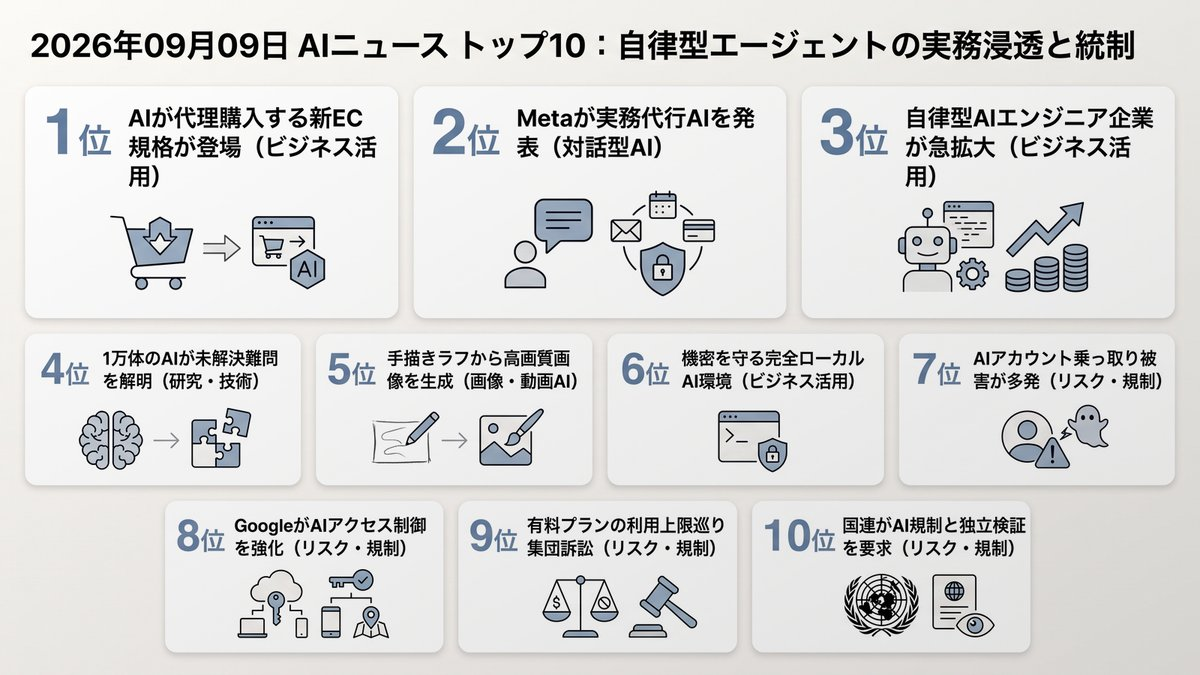
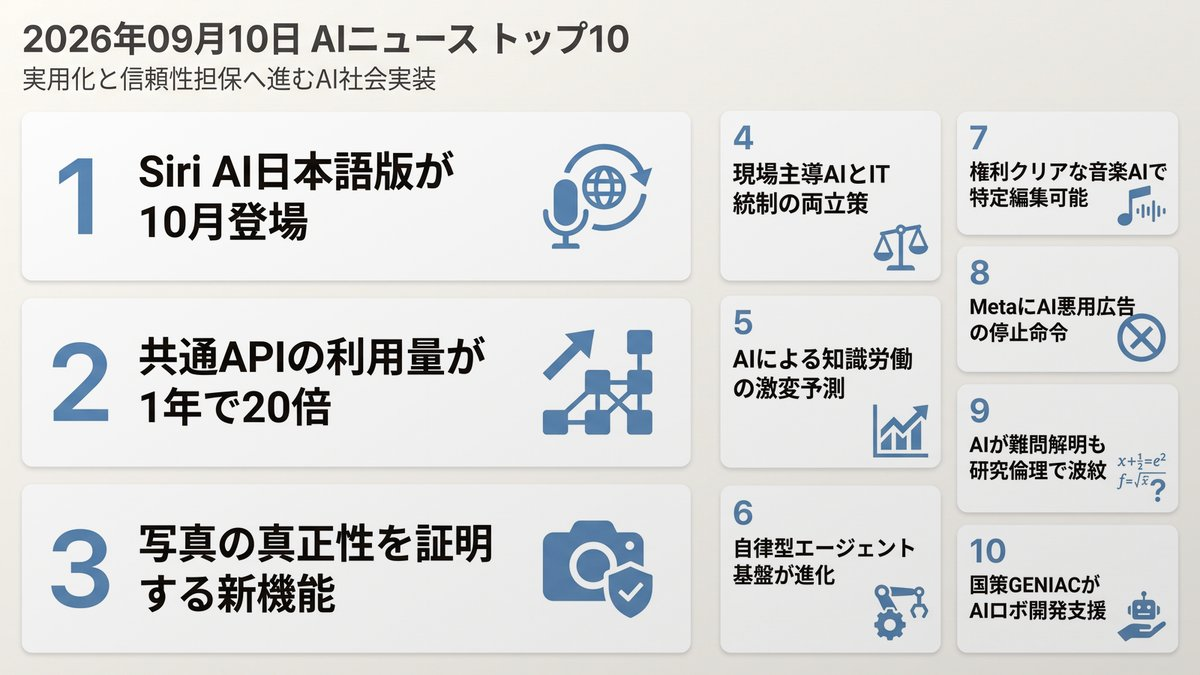
Morning Brief delivered [skip ci]

Changed region(s): [[0.0, 0.0311, 0.9867, 0.9644], [0.6167, 0.4044, 0.6475, 0.4356]]

diff --git a/docs/index.html b/docs/index.html
@@ -12,16 +12,16 @@
     <!-- OGP_START -->
 <meta property="og:type" content="website">
 <meta property="og:site_name" content="AI ニュース TOP10">
-<meta property="og:title" content="自律型エージェントの実務浸透と統制 | AI ニュース TOP10">
-<meta property="og:description" content="実務代行AIが台頭、運用と安全の再設計を。 本日のトップ: AIが代理購入する新EC規格が登場">
+<meta property="og:title" content="実用化と信頼性担保へ進むAI社会実装 | AI ニュース TOP10">
+<meta property="og:description" content="技術の進展と同時に、信頼性と組織統制が問われるフェーズに入っています。 本日のトップ: Siri AI日本語版が10月登場">
 <meta property="og:image" content="https://tadfuji.github.io/ai-news-bot/ogp_card.jpg">
 <meta property="og:url" content="https://tadfuji.github.io/ai-news-bot/">
 <meta name="twitter:card" content="summary_large_image">
-<meta name="twitter:title" content="自律型エージェントの実務浸透と統制 | AI ニュース TOP10">
-<meta name="twitter:description" content="実務代行AIが台頭、運用と安全の再設計を。">
+<meta name="twitter:title" content="実用化と信頼性担保へ進むAI社会実装 | AI ニュース TOP10">
+<meta name="twitter:description" content="技術の進展と同時に、信頼性と組織統制が問われるフェーズに入っています。">
 <meta name="twitter:image" content="https://tadfuji.github.io/ai-news-bot/ogp_card.jpg">
-<meta name="description" content="実務代行AIが台頭、運用と安全の再設計を。 世界のAIニュースを毎朝日本語で厳選してお届け。">
-<script type="application/ld+json">{"@context": "https://schema.org", "@type": "ItemList", "name": "AI ニュース TOP10 — 自律型エージェントの実務浸透と統制", "itemListElement": [{"@type": "ListItem", "position": 1, "name": "AIが代理購入する時代到来、小売やECが直面する新潮流", "url": "https://www.itmedia.co.jp/business/articles/2609/09/news009.html"}, {"@type": "ListItem", "position": 2, "name": "Metaが個人向けAIエージェント「Muse」を発表、実務や購買を代行", "url": "https://www.wired.com/story/meta-releases-muse-a-personal-ai-agent-with-privacy-built-into-it/"}, {"@type": "ListItem", "position": 3, "name": "AIコーディング「Devin」開発のCognitionが評価額480億ドルを達成", "url": "https://techcrunch.com/2026/09/08/cognition-hits-48b-valuation-signaling-investors-believe-ai-coding-is-far-from-a-winner-take-all-market/"}, {"@type": "ListItem", "position": 4, "name": "OpenAIが1万体のAIエージェントで90年の未解決数学難問を88時間で解明", "url": "https://www.bbc.co.uk/news/articles/cy7zygy3rl2o?at_medium=RSS\u0026at_campaign=rss"}, {"@type": "ListItem", "position": 5, "name": "ChatGPTに手描きから高品質画像を生成する新機能「Sketch」が登場", "url": "https://www.theverge.com/ai-artificial-intelligence/991727/openai-chatgpt-images-2-5-sketch"}, {"@type": "ListItem", "position": 6, "name": "機密コードを安全に処理する完全ローカルCLI AI「OpenCode」の活用法", "url": "https://zenn.dev/secondselection/articles/ebb0ff2760185f"}, {"@type": "ListItem", "position": 7, "name": "ハッカーがClaudeアカウントを乗っ取りトークンを盗掘する被害が多発", "url": "https://techcrunch.com/2026/09/08/hackers-are-stealing-claude-tokens-from-subscribers/"}, {"@type": "ListItem", "position": 8, "name": "GoogleがGemini Enterprise向けに端末や場所によるアクセス制御を導入", "url": "http://workspaceupdates.googleblog.com/2026/09/context-aware-access-controls-are-available-for-Gemini-Enterprise-in-the-Admin-console.html"}, {"@type": "ListItem", "position": 9, "name": "Anthropicが集団訴訟に直面、高額サブスクの利用上限巡りユーザーが提訴", "url": "https://www.theverge.com/ai-artificial-intelligence/990313/anthropic-class-action-lawsuit-pricing-subscription-plans"}, {"@type": "ListItem", "position": 10, "name": "国連がAIの安全規制と独立検証を要求、存続に関わるリスクに警告", "url": "https://pc.watch.impress.co.jp/docs/news/2139271.html"}]}</script>
+<meta name="description" content="技術の進展と同時に、信頼性と組織統制が問われるフェーズに入っています。 世界のAIニュースを毎朝日本語で厳選してお届け。">
+<script type="application/ld+json">{"@context": "https://schema.org", "@type": "ItemList", "name": "AI ニュース TOP10 — 実用化と信頼性担保へ進むAI社会実装", "itemListElement": [{"@type": "ListItem", "position": 1, "name": "Apple「Siri AI」日本語版を10月に提供開始へ", "url": "https://www.itmedia.co.jp/aiplus/article/2609/10/2000001338/"}, {"@type": "ListItem", "position": 2, "name": "AI共通API「OpenRouter」のトークン処理量が1年で20倍に急拡大", "url": "https://atmarkit.itmedia.co.jp/ait/articles/2609/10/news011.html"}, {"@type": "ListItem", "position": 3, "name": "iPhone 18 Pro、撮影写真が「本物」であることを証明する署名機能を搭載", "url": "https://www.gizmodo.jp/article/apple-reference-image_iphone/"}, {"@type": "ListItem", "position": 4, "name": "現場のAI導入における暴走とIT統制の対立を防ぐ「組織変革の要点」", "url": "https://atmarkit.itmedia.co.jp/ait/articles/2609/10/news012.html"}, {"@type": "ListItem", "position": 5, "name": "Anthropicが経済影響モデルを公表：知識労働者の失業リスクと生産性拡大シナリオ", "url": "https://the-decoder.com/anthropic-built-an-economic-model-that-frames-its-ceos-bleakest-job-forecasts-as-an-outlier-scenario/"}, {"@type": "ListItem", "position": 6, "name": "AWSがAmazon Bedrockのアップデートを発表、GPT-5.6や長期実行エージェントに対応", "url": "https://aws.amazon.com/blogs/machine-learning/icymi-what-landed-for-ai-builders-in-august-2026/"}, {"@type": "ListItem", "position": 7, "name": "Sunoがレコード会社と提携した新音楽生成AI「v6」を公開、チャット編集に対応", "url": "https://www.theverge.com/ai-artificial-intelligence/991977/suno-releases-its-first-ai-music-model-made-with-record-industry-help"}, {"@type": "ListItem", "position": 8, "name": "米サンフランシスコ市、MetaにAI悪用広告の停止を命令 プラットフォーム責任追及", "url": "https://www.wired.com/story/san-francisco-orders-meta-to-stop-allowing-ai-child-abuse-ads/"}, {"@type": "ListItem", "position": 9, "name": "OpenAIが数学の難問をAIで解明と発表、学会では抜け駆け・剽窃の懸念が浮上", "url": "https://www.theverge.com/ai-artificial-intelligence/992953/openai-math-millennium-prize-navier-stokes"}, {"@type": "ListItem", "position": 10, "name": "経産省GENIACがAI×ロボティクスへ拡張、基盤モデル開発事業者13社を採択", "url": "https://monoist.itmedia.co.jp/mn/articles/2609/10/news053.html"}]}</script>
 <!-- OGP_END -->
     <style>
         :root {
@@ -391,16 +391,16 @@
 
         <main id="news-container">
             <!-- PRERENDER_START -->
-<article class="news-card" data-category="ビジネス活用"><div style="display:flex;align-items:center;margin-bottom:5px;"><span class="news-rank">1</span><span class="news-category" data-category="ビジネス活用">ビジネス活用</span></div><div class="news-oneliner">💡 AIが代理購入する新EC規格が登場</div><h2 class="news-title">AIが代理購入する時代到来、小売やECが直面する新潮流</h2><p class="news-summary">AIがユーザーの意図を汲み取って献立の検討から商品の比較、店舗受け取り予約や決済まで自律的に完結させる「エージェンティックコマース」の台頭が解説されています。米Googleが共通規格「Universal Commerce Protocol (UCP)」を推進するなど、消費者が直接ECサイトを回遊せずAIが最適な店舗や商品を選ぶ仕組みが急速に整いつつあります。企業にとっては、従来の人間向けWebデザインだけでなく、AIが商品の価値や適合性を正確に判断できるデータ構造を整備することが事業継続の必須条件になります。</p><div class="news-why">📌 なぜ重要？ 購買決定権が人間からAIエージェントへ移行し、従来のSEOやWebデザイン重視のマーケティング戦略が根本から覆る可能性があります。</div><div class="news-action">👉 今日の行動：自社製品情報が外部AIに機械可読な構造化データとして提供できているか確認してください。</div><div class="news-meta"><span class="news-source">📰 ITmedia ビジネスオンライン</span><span class="news-link"><a href="https://www.itmedia.co.jp/business/articles/2609/09/news009.html" target="_blank" rel="noopener">→ 元記事を読む</a></span></div></article>
-<article class="news-card" data-category="対話型AI"><div style="display:flex;align-items:center;margin-bottom:5px;"><span class="news-rank">2</span><span class="news-category" data-category="対話型AI">対話型AI</span></div><div class="news-oneliner">💡 Metaが実務代行AIを発表</div><h2 class="news-title">Metaが個人向けAIエージェント「Muse」を発表、実務や購買を代行</h2><p class="news-summary">Metaは日常のデジタル作業を自動化する個人用AIエージェント「Muse」を発表しました。専用アプリやWebサイトに加え、WhatsApp経由でも利用可能で、自然言語で指示するだけでメール送信、旅行予約、さらにはStripeと連携した安全な決済代行まで自律的にこなします。各ユーザーの作業を仮想マシン上で分離する「Secure VM」アーキテクチャを採用し、セキュリティとプライバシー保護を前面に押し出しています。日常のルーティン業務や煩雑な手配作業をAIへ完全に委任するワークスタイルへの転換を後押しします。</p><div class="news-why">📌 なぜ重要？ 自然言語の指示だけで予約から決済まで完結する環境が一般化し、業務委任のスピードが劇的に加速します。</div><div class="news-action">👉 今日の行動：普段手作業で行っている定型的な連絡や手配タスクをリストアップしてみてください。</div><div class="news-meta"><span class="news-source">📰 Wired AI</span><span class="news-link"><a href="https://www.wired.com/story/meta-releases-muse-a-personal-ai-agent-with-privacy-built-into-it/" target="_blank" rel="noopener">→ 元記事を読む</a></span></div></article>
-<article class="news-card" data-category="ビジネス活用"><div style="display:flex;align-items:center;margin-bottom:5px;"><span class="news-rank">3</span><span class="news-category" data-category="ビジネス活用">ビジネス活用</span></div><div class="news-oneliner">💡 自律型AIエンジニア企業が急拡大</div><h2 class="news-title">AIコーディング「Devin」開発のCognitionが評価額480億ドルを達成</h2><p class="news-summary">自律型AIエンジニア「Devin」を開発するスタートアップCognitionが、480億ドルの企業評価額で20億ドルを調達したと発表しました。年換算収益はわずか数か月で4億9200万ドルから9億ドルへと倍増しており、米大手金融機関やメルセデス・ベンツなどエンタープライズ企業での導入が急速に進んでいます。ソフトウェア開発の現場では、プログラマーの単なるコード補完にとどまらず、仕様把握からデバッグ、実装までをAIが自律的に遂行する変革が不可逆な潮流となっています。</p><div class="news-why">📌 なぜ重要？ 単なるコード補完を超え、仕様把握から実装まで自走するAIの導入が開発組織の標準になりつつあります。</div><div class="news-action">👉 今日の行動：開発チームのタスクのうち、仕様策定とコーディングの工数比率を再点検してみましょう。</div><div class="news-meta"><span class="news-source">📰 TechCrunch AI</span><span class="news-link"><a href="https://techcrunch.com/2026/09/08/cognition-hits-48b-valuation-signaling-investors-believe-ai-coding-is-far-from-a-winner-take-all-market/" target="_blank" rel="noopener">→ 元記事を読む</a></span></div></article>
-<article class="news-card" data-category="研究・技術"><div style="display:flex;align-items:center;margin-bottom:5px;"><span class="news-rank">4</span><span class="news-category" data-category="研究・技術">研究・技術</span></div><div class="news-oneliner">💡 1万体のAIが未解決難問を解明</div><h2 class="news-title">OpenAIが1万体のAIエージェントで90年の未解決数学難問を88時間で解明</h2><p class="news-summary">OpenAIは、未発表の新型AIモデルを搭載した約1万体のAIエージェントを協調稼働させ、流体力学における90年来の未解決問題であるナビエ・ストークス方程式の一部をわずか88時間で解明したと発表しました。エージェント間では約300万通のメッセージがやり取りされ、1300億トークンが消費されました。この成果は、単一のプロンプト処理を超えて、多数の自律型AIが連携して高度な知的課題を並列解決する「群エージェントシステム」の実用性と圧倒的な問題解決能力を証明しています。</p><div class="news-why">📌 なぜ重要？ 単一AIへの指示から多数のエージェントを協調させる群制御へのパラダイムシフトが本格化しています。</div><div class="news-action">👉 今日の行動：大規模課題を独立した小タスクへ並列分解する業務プロセスを意識してみてください。</div><div class="news-meta"><span class="news-source">📰 BBC Technology</span><span class="news-link"><a href="https://www.bbc.co.uk/news/articles/cy7zygy3rl2o?at_medium=RSS&amp;at_campaign=rss" target="_blank" rel="noopener">→ 元記事を読む</a></span></div></article>
-<article class="news-card" data-category="画像・動画AI"><div style="display:flex;align-items:center;margin-bottom:5px;"><span class="news-rank">5</span><span class="news-category" data-category="画像・動画AI">画像・動画AI</span></div><div class="news-oneliner">💡 手描きラフから高画質画像を生成</div><h2 class="news-title">ChatGPTに手描きから高品質画像を生成する新機能「Sketch」が登場</h2><p class="news-summary">OpenAIはChatGPT Images 2.5を発表し、チャット画面上で手描きした簡単なラフ画から高精細な画像を生成できる新機能「Sketch」を導入しました。プロンプトとして「@Sketch」と入力することでスケッチ描画ウィンドウが立ち上がり、マウス等で描いた粗い絵を指示通りのリアルな画像へと変換できます。さらに生成された特定の箇所を指定して修正を指示できる部分編集機能や、従来比で最大50%の生成遅延削減も実現しており、企画書やプレゼン資料用のビジュアル作成が劇的に効率化されます。</p><div class="news-why">📌 なぜ重要？ 言語化が困難な視覚イメージの共有コストが下がり、企画・デザインの初期検討が大幅に迅速化します。</div><div class="news-action">👉 今日の行動：企画書に添えるイメージ図を手描きラフから作成する実験を行ってみてください。</div><div class="news-meta"><span class="news-source">📰 The Verge AI</span><span class="news-link"><a href="https://www.theverge.com/ai-artificial-intelligence/991727/openai-chatgpt-images-2-5-sketch" target="_blank" rel="noopener">→ 元記事を読む</a></span></div></article>
-<article class="news-card" data-category="ビジネス活用"><div style="display:flex;align-items:center;margin-bottom:5px;"><span class="news-rank">6</span><span class="news-category" data-category="ビジネス活用">ビジネス活用</span></div><div class="news-oneliner">💡 機密を守る完全ローカルAI環境</div><h2 class="news-title">機密コードを安全に処理する完全ローカルCLI AI「OpenCode」の活用法</h2><p class="news-summary">ターミナル上で自律的にコード生成や修正を行うCLI AIエージェント「OpenCode」を、ローカルLLM実行基盤「Ollama」と連携させる実践ガイドが公開されました。外部APIへ一切データを送信しないため、企業の厳格な機密保持基準を満たしながら、自走型エージェント開発環境をローカルPC上に構築できます。API利用料や回数制限を気にせず試行錯誤できる利点があり、社内の機密データやソースコードを保護しつつ最新の開発支援AIを導入したい企業にとって有力な選択肢となります。</p><div class="news-why">📌 なぜ重要？ 情報漏洩リスクや従量課金を気にせず、エージェント機能を社内環境で検証・運用可能になります。</div><div class="news-action">👉 今日の行動：社内規定で外部クラウドに出せない機密資産の範囲をエンジニアと共有してみましょう。</div><div class="news-meta"><span class="news-source">📰 Zenn LLM</span><span class="news-link"><a href="https://zenn.dev/secondselection/articles/ebb0ff2760185f" target="_blank" rel="noopener">→ 元記事を読む</a></span></div></article>
-<article class="news-card" data-category="リスク・規制"><div style="display:flex;align-items:center;margin-bottom:5px;"><span class="news-rank">7</span><span class="news-category" data-category="リスク・規制">リスク・規制</span></div><div class="news-oneliner">💡 AIアカウント乗っ取り被害が多発</div><h2 class="news-title">ハッカーがClaudeアカウントを乗っ取りトークンを盗掘する被害が多発</h2><p class="news-summary">AnthropicのAIサービス「Claude」において、第三者にセッションキーが不正取得され、正規契約者のトークン利用枠を裏で消費される被害が報告されています。被害に遭ったコンサルタントは自身が作業していない時間帯にトークン消費が急増したことで被害を認識し、アカウントの一時停止と返金対応を受けましたが、業務停止による多大な損害を被りました。同様の被害はRedditやGitHubでも相次いで報告されており、企業や個人がAIツールのアカウント管理およびセキュリティ対策を見直す重要性が浮き彫りになっています。</p><div class="news-why">📌 なぜ重要？ AIツールの認証不備がトークン盗掘や予期せぬ金銭的・業務停止損害に直結するリスクが現実化しています。</div><div class="news-action">👉 今日の行動：利用中のAIサービスで二段階認証の有効化とAPIキーの保管状況を再点検してください。</div><div class="news-meta"><span class="news-source">📰 TechCrunch AI</span><span class="news-link"><a href="https://techcrunch.com/2026/09/08/hackers-are-stealing-claude-tokens-from-subscribers/" target="_blank" rel="noopener">→ 元記事を読む</a></span></div></article>
-<article class="news-card" data-category="リスク・規制"><div style="display:flex;align-items:center;margin-bottom:5px;"><span class="news-rank">8</span><span class="news-category" data-category="リスク・規制">リスク・規制</span></div><div class="news-oneliner">💡 GoogleがAIアクセス制御を強化</div><h2 class="news-title">GoogleがGemini Enterprise向けに端末や場所によるアクセス制御を導入</h2><p class="news-summary">Google Workspaceは「Gemini Enterprise」向けに、管理コンソールから設定可能なコンテキストアウェアアクセス（CAA）ポリシーの提供を開始しました。これによりシステム管理者は、アクセス元のデバイスのセキュリティ状態や地理的な接続場所などの属性に基づいて、企業向け生成AIへのアクセス権限を細かく制御できるようになります。リモートワークとオフィス勤務が混在するハイブリッドワーク環境において、私用端末からの不正アクセスや機密データの漏洩を防ぎ、安全な生成AI運用体制を構築できます。</p><div class="news-why">📌 なぜ重要？ 場所や端末状態に応じたアクセス統制により、エンタープライズでの安全なAI活用基盤が整います。</div><div class="news-action">👉 今日の行動：社内の生成AI利用ポリシーで私用端末の接続条件が定義されているか確認しましょう。</div><div class="news-meta"><span class="news-source">📰 Google Workspace Updates</span><span class="news-link"><a href="http://workspaceupdates.googleblog.com/2026/09/context-aware-access-controls-are-available-for-Gemini-Enterprise-in-the-Admin-console.html" target="_blank" rel="noopener">→ 元記事を読む</a></span></div></article>
-<article class="news-card" data-category="リスク・規制"><div style="display:flex;align-items:center;margin-bottom:5px;"><span class="news-rank">9</span><span class="news-category" data-category="リスク・規制">リスク・規制</span></div><div class="news-oneliner">💡 有料プランの利用上限巡り集団訴訟</div><h2 class="news-title">Anthropicが集団訴訟に直面、高額サブスクの利用上限巡りユーザーが提訴</h2><p class="news-summary">Anthropicが提供する最上位の有料サブスクリプションプランについて、一部のパワーユーザーが集団訴訟を提起しました。原告側は、高額な利用料に見合う十分な利用枠が提供されると誤認させられたにもかかわらず、実際には厳しい利用制限やアクセス遮断が行われたと主張しています。生成AIのヘビーユースが業務に組み込まれる中、ベンダー側の利用規約や課金体系、サービス水準合意（SLA）の不透明さがビジネス継続性のリスクとして顕在化しており、企業がAIサービスを選定する際の教訓となります。</p><div class="news-why">📌 なぜ重要？ 基幹業務へのAI導入において、レートリミットやSLAの明確さが事業継続性の鍵となります。</div><div class="news-action">👉 今日の行動：契約しているAIサービスの利用上限や停止リスクに関する代替手段を整理してください。</div><div class="news-meta"><span class="news-source">📰 The Verge AI</span><span class="news-link"><a href="https://www.theverge.com/ai-artificial-intelligence/990313/anthropic-class-action-lawsuit-pricing-subscription-plans" target="_blank" rel="noopener">→ 元記事を読む</a></span></div></article>
-<article class="news-card" data-category="リスク・規制"><div style="display:flex;align-items:center;margin-bottom:5px;"><span class="news-rank">10</span><span class="news-category" data-category="リスク・規制">リスク・規制</span></div><div class="news-oneliner">💡 国連がAI規制と独立検証を要求</div><h2 class="news-title">国連がAIの安全規制と独立検証を要求、存続に関わるリスクに警告</h2><p class="news-summary">国連人権高等弁務官のフォルカー・テュルク氏は、高度なAIが適切に制御されなければ人類にとって存続に関わるリスクになり得ると警鐘を鳴らしました。開発者の制御を逃れるほど強力なAIシステムの出現を防ぐため、法的拘束力のある規則の策定や独立した外部検証の義務化、明確な安全制限の確立を国際社会に求めました。また、AI技術の利権集中やデータ搾取、雇用や民主主義への影響、自律型兵器への転用などの課題も指摘し、人権を中心とした国際的な法規制フレームワークの必要性を強調しています。</p><div class="news-why">📌 なぜ重要？ 国際的な法規制の整備が進むことで、将来的なAI開発・運用に対するコンプライアンス要件が厳格化します。</div><div class="news-action">👉 今日の行動：自社のAI活用が人権やプライバシー保護の観点に抵触していないか確認してみましょう。</div><div class="news-meta"><span class="news-source">📰 PC Watch</span><span class="news-link"><a href="https://pc.watch.impress.co.jp/docs/news/2139271.html" target="_blank" rel="noopener">→ 元記事を読む</a></span></div></article>
+<article class="news-card" data-category="日本市場"><div style="display:flex;align-items:center;margin-bottom:5px;"><span class="news-rank">1</span><span class="news-category" data-category="日本市場">日本市場</span></div><div class="news-oneliner">💡 Siri AI日本語版が10月登場</div><h2 class="news-title">Apple「Siri AI」日本語版を10月に提供開始へ</h2><p class="news-summary">Appleは最新AIを組み込んだ音声アシスタント「Siri AI」日本語版を10月に提供開始すると発表。端末内文脈理解により、日常業務やアプリ操作の横断的自動化が可能になります。</p><div class="news-why">📌 なぜ重要？ 日常業務で使う端末でのAI操作が本格化し、音声や自然言語によるタスク処理効率が劇的に変わります。</div><div class="news-action">👉 今日の行動：普段iPhoneやMacで行っている反復操作をリストアップしてみましょう。</div><div class="news-meta"><span class="news-source">📰 ITmedia AI十</span><span class="news-link"><a href="https://www.itmedia.co.jp/aiplus/article/2609/10/2000001338/" target="_blank" rel="noopener">→ 元記事を読む</a></span></div></article>
+<article class="news-card" data-category="ビジネス活用"><div style="display:flex;align-items:center;margin-bottom:5px;"><span class="news-rank">2</span><span class="news-category" data-category="ビジネス活用">ビジネス活用</span></div><div class="news-oneliner">💡 共通APIの利用量が1年で20倍</div><h2 class="news-title">AI共通API「OpenRouter」のトークン処理量が1年で20倍に急拡大</h2><p class="news-summary">400以上のAIモデルを単一APIで切り替え可能なOpenRouterの利用量が急伸。無料モデル提供や自律型エージェントからのAPIアクセス急増が成長を後押ししています。</p><div class="news-why">📌 なぜ重要？ 複数モデルを用途別に柔軟に切り替えるマルチモデル運用が、企業の開発や検証の主流になりつつあります。</div><div class="news-action">👉 今日の行動：自社で試したいAIモデルを用途別に比較整理してみましょう。</div><div class="news-meta"><span class="news-source">📰 ITmedia AI十</span><span class="news-link"><a href="https://atmarkit.itmedia.co.jp/ait/articles/2609/10/news011.html" target="_blank" rel="noopener">→ 元記事を読む</a></span></div></article>
+<article class="news-card" data-category="リスク・規制"><div style="display:flex;align-items:center;margin-bottom:5px;"><span class="news-rank">3</span><span class="news-category" data-category="リスク・規制">リスク・規制</span></div><div class="news-oneliner">💡 写真の真正性を証明する新機能</div><h2 class="news-title">iPhone 18 Pro、撮影写真が「本物」であることを証明する署名機能を搭載</h2><p class="news-summary">Appleは撮影写真がAI生成や改ざんでないことをセンサーレベルで証明する機能を導入。ディープフェイク対策や公式記録・証拠写真の真正性担保を支援します。</p><div class="news-why">📌 なぜ重要？ ディープフェイク対策が端末レベルで進む中、企業記録や公式写真の信ぴょう性担保のあり方が変わります。</div><div class="news-action">👉 今日の行動：業務で扱う記録写真や公式画像の真正性確認手順を確認してみましょう。</div><div class="news-meta"><span class="news-source">📰 Gizmodo Japan</span><span class="news-link"><a href="https://www.gizmodo.jp/article/apple-reference-image_iphone/" target="_blank" rel="noopener">→ 元記事を読む</a></span></div></article>
+<article class="news-card" data-category="ビジネス活用"><div style="display:flex;align-items:center;margin-bottom:5px;"><span class="news-rank">4</span><span class="news-category" data-category="ビジネス活用">ビジネス活用</span></div><div class="news-oneliner">💡 現場主導AIとIT統制の両立策</div><h2 class="news-title">現場のAI導入における暴走とIT統制の対立を防ぐ「組織変革の要点」</h2><p class="news-summary">業務部門のシャドーAI利用と厳格なIT統制の摩擦を防ぐため、一方的な禁止ではなく共通ガイドラインと現場主導の定着支援を組み合わせるガバナンス論が提示されました。</p><div class="news-why">📌 なぜ重要？ 現場のAI活用を禁止するのではなく、安全に推進するためのルール作りと組織設計が競争力を左右します。</div><div class="news-action">👉 今日の行動：自部署で使われている非公式なAIツールの利用実態を棚卸ししてみましょう。</div><div class="news-meta"><span class="news-source">📰 ITmedia AI十</span><span class="news-link"><a href="https://atmarkit.itmedia.co.jp/ait/articles/2609/10/news012.html" target="_blank" rel="noopener">→ 元記事を読む</a></span></div></article>
+<article class="news-card" data-category="ビジネス活用"><div style="display:flex;align-items:center;margin-bottom:5px;"><span class="news-rank">5</span><span class="news-category" data-category="ビジネス活用">ビジネス活用</span></div><div class="news-oneliner">💡 AIによる知識労働の激変予測</div><h2 class="news-title">Anthropicが経済影響モデルを公表：知識労働者の失業リスクと生産性拡大シナリオ</h2><p class="news-summary">Anthropicは2030年までの経済影響モデルを発表し、極端なシナリオとして知識労働者の失業率17.9%を試算しつつ、大幅な経済拡大の可能性も示しました。</p><div class="news-why">📌 なぜ重要？ 知識労働の自動化が現実味を帯びる中、AIを使いこなして付加価値を生み出すスキルの再定義が急務です。</div><div class="news-action">👉 今日の行動：自分の日々の業務でAIに代替可能な部分と人間ならではの強みを整理しましょう。</div><div class="news-meta"><span class="news-source">📰 The Decoder</span><span class="news-link"><a href="https://the-decoder.com/anthropic-built-an-economic-model-that-frames-its-ceos-bleakest-job-forecasts-as-an-outlier-scenario/" target="_blank" rel="noopener">→ 元記事を読む</a></span></div></article>
+<article class="news-card" data-category="ビジネス活用"><div style="display:flex;align-items:center;margin-bottom:5px;"><span class="news-rank">6</span><span class="news-category" data-category="ビジネス活用">ビジネス活用</span></div><div class="news-oneliner">💡 自律型エージェント基盤が進化</div><h2 class="news-title">AWSがAmazon Bedrockのアップデートを発表、GPT-5.6や長期実行エージェントに対応</h2><p class="news-summary">AWSはBedrockで最新モデル対応に加え、自律型エージェント構築SDK「AgentCore」を提供開始。長期タスクの安全な委託と業務プロセスの完全自動化を前進させます。</p><div class="news-why">📌 なぜ重要？ 単なるチャット応答から複数ステップを自律実行するエージェントへと、企業のAI活用フェーズが移行しています。</div><div class="news-action">👉 今日の行動：長時間かかっている定型ワークフローをエージェント化できるか検討してみましょう。</div><div class="news-meta"><span class="news-source">📰 AWS Machine Learning</span><span class="news-link"><a href="https://aws.amazon.com/blogs/machine-learning/icymi-what-landed-for-ai-builders-in-august-2026/" target="_blank" rel="noopener">→ 元記事を読む</a></span></div></article>
+<article class="news-card" data-category="画像・動画AI"><div style="display:flex;align-items:center;margin-bottom:5px;"><span class="news-rank">7</span><span class="news-category" data-category="画像・動画AI">画像・動画AI</span></div><div class="news-oneliner">💡 権利クリアな音楽AIで特定編集可能</div><h2 class="news-title">Sunoがレコード会社と提携した新音楽生成AI「v6」を公開、チャット編集に対応</h2><p class="news-summary">Sunoは大手レーベル許諾音源で学習した新モデルv6を発表。著作権リスクを抑えつつ、チャットベースで特定パートを精密編集できる機能を実装しました。</p><div class="news-why">📌 なぜ重要？ 権利関係が担保された生成ツールの登場により、企業のPRや動画制作への商用導入が一気に容易になります。</div><div class="news-action">👉 今日の行動：自社のプロモーションや動画コンテンツのBGM制作フローを見直してみましょう。</div><div class="news-meta"><span class="news-source">📰 The Verge AI</span><span class="news-link"><a href="https://www.theverge.com/ai-artificial-intelligence/991977/suno-releases-its-first-ai-music-model-made-with-record-industry-help" target="_blank" rel="noopener">→ 元記事を読む</a></span></div></article>
+<article class="news-card" data-category="リスク・規制"><div style="display:flex;align-items:center;margin-bottom:5px;"><span class="news-rank">8</span><span class="news-category" data-category="リスク・規制">リスク・規制</span></div><div class="news-oneliner">💡 MetaにAI悪用広告の停止命令</div><h2 class="news-title">米サンフランシスコ市、MetaにAI悪用広告の停止を命令 プラットフォーム責任追及</h2><p class="news-summary">サンフランシスコ市は実在未成年者のAI加工画像を広告配信していたとしてMetaに停止命令を出しました。プラットフォームの広告審査体制への責任追及が強まっています。</p><div class="news-why">📌 なぜ重要？ プラットフォームの規制強化に伴い、広告配信の審査厳格化やブランド毀損リスクへの配慮が不可欠になります。</div><div class="news-action">👉 今日の行動：出稿中のデジタル広告の掲載面設定やブランドセーフティ設定を再確認しましょう。</div><div class="news-meta"><span class="news-source">📰 Wired AI</span><span class="news-link"><a href="https://www.wired.com/story/san-francisco-orders-meta-to-stop-allowing-ai-child-abuse-ads/" target="_blank" rel="noopener">→ 元記事を読む</a></span></div></article>
+<article class="news-card" data-category="研究・技術"><div style="display:flex;align-items:center;margin-bottom:5px;"><span class="news-rank">9</span><span class="news-category" data-category="研究・技術">研究・技術</span></div><div class="news-oneliner">💡 AIが難問解明も研究倫理で波紋</div><h2 class="news-title">OpenAIが数学の難問をAIで解明と発表、学会では抜け駆け・剽窃の懸念が浮上</h2><p class="news-summary">OpenAIが1万のエージェントを用いて数学難問を解明したと発表。一方で先行研究の参照疑惑が持ち上がり、学術界から研究倫理をめぐる反発が生じています。</p><div class="news-why">📌 なぜ重要？ AIによる科学的発見が加速する一方で、知的財産の帰属やデータの透明性をめぐる倫理課題が顕在化しています。</div><div class="news-action">👉 今日の行動：AI生成物を活用した成果物の権利関係や出典表記ルールを確認しましょう。</div><div class="news-meta"><span class="news-source">📰 The Verge AI</span><span class="news-link"><a href="https://www.theverge.com/ai-artificial-intelligence/992953/openai-math-millennium-prize-navier-stokes" target="_blank" rel="noopener">→ 元記事を読む</a></span></div></article>
+<article class="news-card" data-category="日本市場"><div style="display:flex;align-items:center;margin-bottom:5px;"><span class="news-rank">10</span><span class="news-category" data-category="日本市場">日本市場</span></div><div class="news-oneliner">💡 国策GENIACがAIロボ開発支援</div><h2 class="news-title">経産省GENIACがAI×ロボティクスへ拡張、基盤モデル開発事業者13社を採択</h2><p class="news-summary">経済産業省とNEDOが推進する「GENIAC」は、活動領域をロボット基盤モデルの開発へと拡張し、事業者13社を採択した。2040年までに1000万台のAIロボット導入を目指す「AIロボティクス戦略」の一環であり、日本の強みであるハードウェアのすり合わせ技術とAIの統合を支援する。製造業や物流、サービス業の現場における自動化・人手不足解消を大きく前進させる取り組み。</p><div class="news-why">📌 なぜ重要？ 物流や製造などの現場自動化ソリューションが国産技術で早期に登場する道筋が開かれます。</div><div class="news-action">👉 今日の行動：自社のサプライチェーンや現場作業で人手不足が深刻な工程をリストアップしてみてください。</div><div class="news-meta"><span class="news-source">📰 ITmedia AI+</span><span class="news-link"><a href="https://monoist.itmedia.co.jp/mn/articles/2609/10/news053.html" target="_blank" rel="noopener">→ 元記事を読む</a></span></div></article>
 <!-- PRERENDER_END -->
         </main>
 
